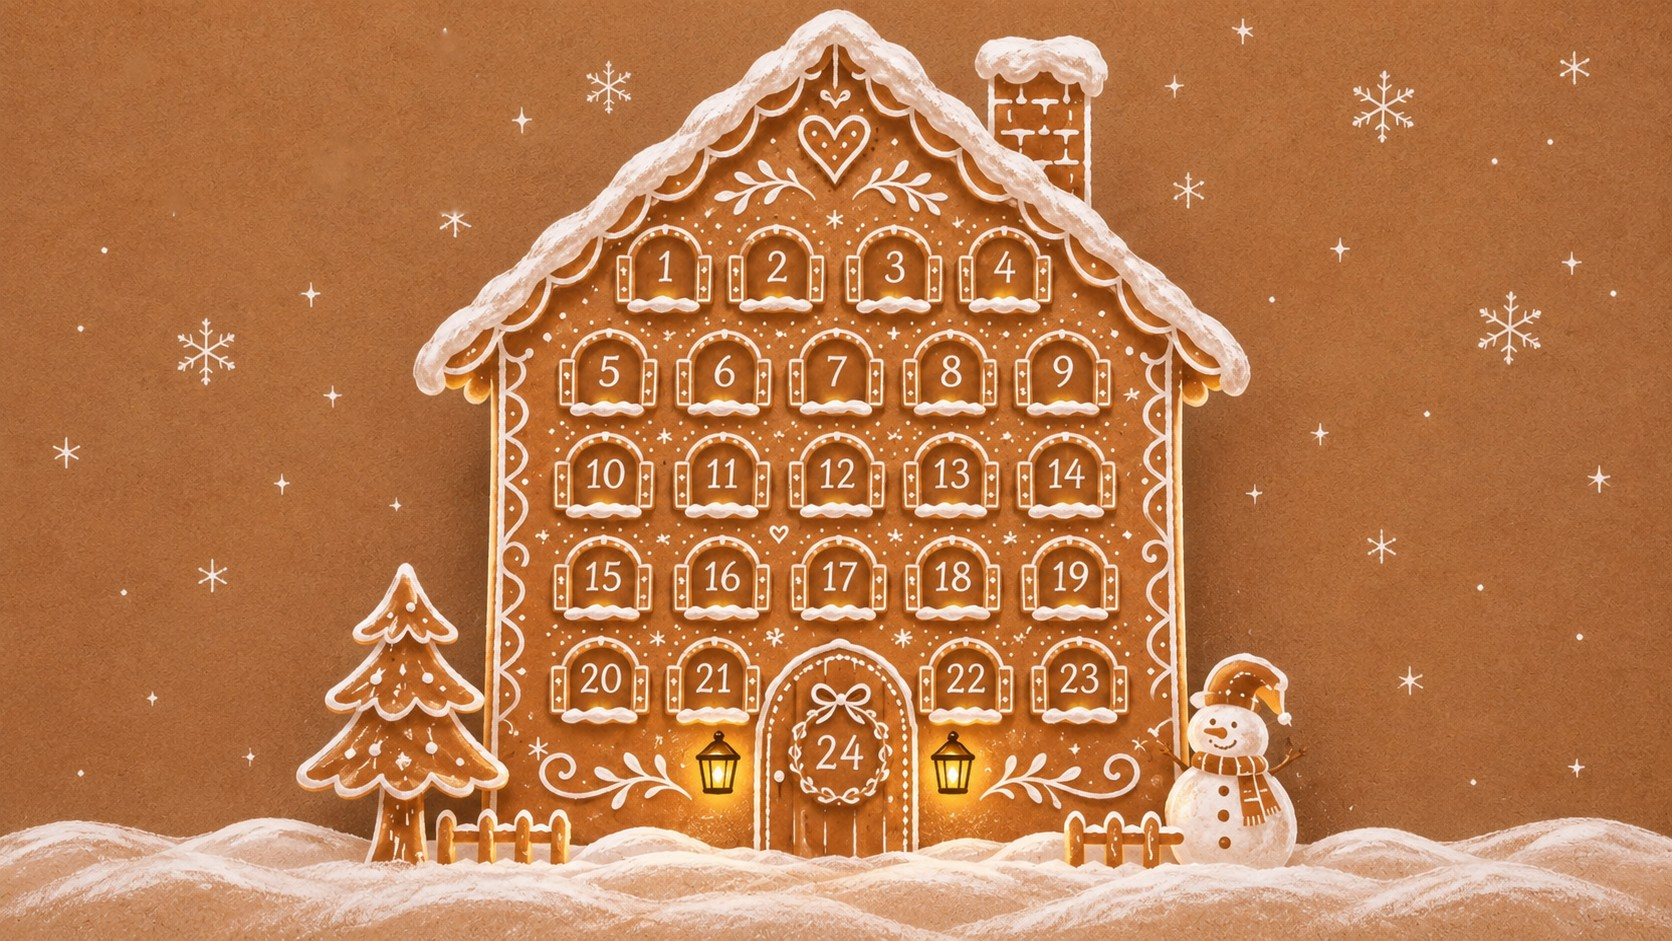
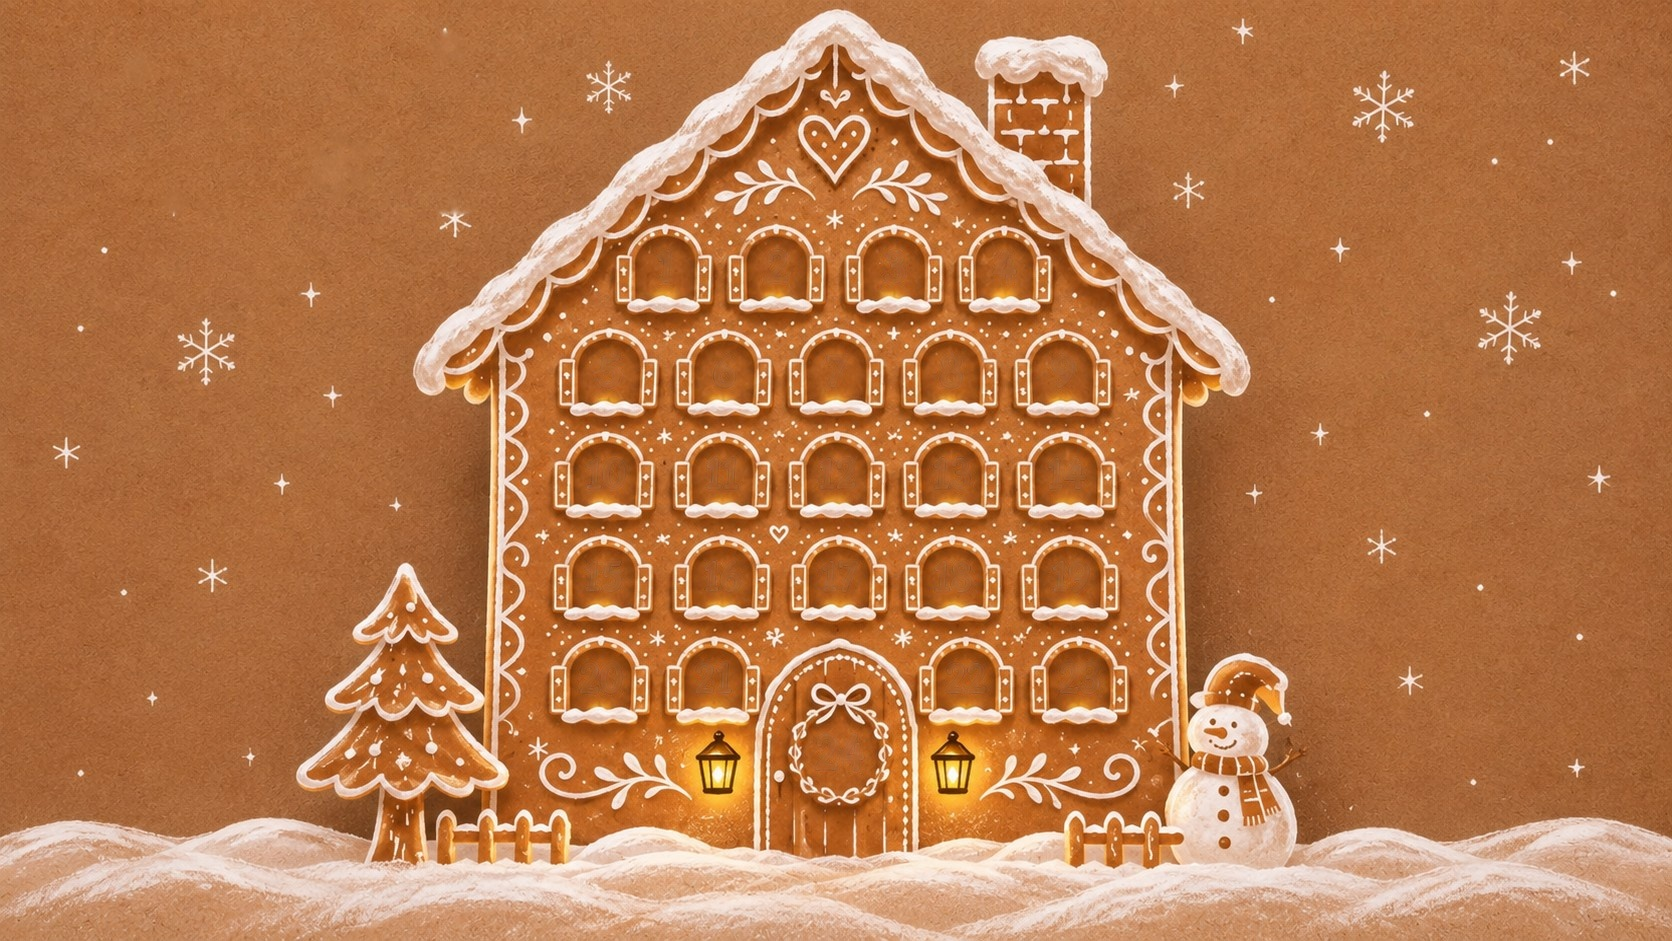
Fensternummern in der Schrift der Karten
Claude-Session: https://claude.ai/code/session_01Th1ZwhDaFACmJguCpPspif

diff --git a/index.html b/index.html
@@ -186,6 +186,11 @@
   @keyframes twinkle-pop { 0% { transform: translate(-50%,-50%) scale(0) rotate(0); opacity: 0; }
     30% { transform: translate(-50%,-50%) scale(1.1) rotate(25deg); opacity: 1; }
     100% { transform: translate(-50%,-50%) scale(.2) rotate(70deg); opacity: 0; } }
+  /* Türchen-Nummern in derselben Schrift wie auf den Karten */
+  .wnum { position: absolute; transform: translate(-50%, -50%); pointer-events: none; z-index: 1;
+    font-family: 'Zuckerguss', cursive; font-weight: 700; line-height: 1; white-space: nowrap;
+    color: #e9e0d5; font-variant-numeric: lining-nums;
+    text-shadow: 0 -.012em 0 #f2ece5, 0 .035em 0 #d4c1ad, 0 .065em .035em rgba(70,35,10,.5); }
   .hint { position: fixed; left: 50%; bottom: calc(env(safe-area-inset-bottom) + 28px);
     transform: translateX(-50%) translateY(20px); opacity: 0; transition: all .4s ease;
     background: #f2e3cb; color: #3a2414; font-family: 'EB Garamond', Georgia, serif; font-size: 18px;
@@ -349,7 +354,7 @@ const PC = innerWidth / innerHeight > 1.05;
 if (PC) document.body.classList.add('pc');
 const LAYOUTS = {
   handy: {
-    img: 'haus-voll.jpg', W: 1199, H: 2702, OFF: 790,
+    img: 'haus-voll.jpg', nums: {"pos": {"1": [364.5, 364.5], "2": [519.0, 365.0], "3": [684.5, 366.5], "4": [834.5, 367.0], "5": [287.0, 514.5], "6": [448.0, 514.0], "7": [603.5, 514.5], "8": [762.0, 514.5], "9": [915.0, 515.0], "10": [282.0, 662.0], "11": [443.5, 660.0], "12": [604.0, 660.0], "13": [762.5, 660.0], "14": [921.0, 660.0], "15": [279.0, 808.0], "16": [445.0, 807.5], "17": [609.0, 808.0], "18": [765.0, 807.5], "19": [928.5, 808.0], "20": [275.0, 957.0], "21": [430.0, 955.5], "22": [786.5, 955.5], "23": [944.0, 955.0], "24": [610.0, 1055.0]}, "h": 43, "h24": 48}, W: 1199, H: 2702, OFF: 790,
     win: [11, 9.5 * 1312 / 2702], win24: [16, 13 * 1312 / 2702],
     glow: [16, 13 * 1312 / 2702], glow24: [22, 17 * 1312 / 2702],
     anim: {"tree": [0, 809, 203, 431], "treeHole": [0, 806, 206, 437], "treePivot": [60.400000000000006, 1226.6], "armL": [1015, 1052, 47, 54], "armR": [1131, 1057, 60, 55], "armHole": [1013, 1051, 180, 63], "pivL": [1054.3, 1096.12], "pivR": [1139.8, 1104.1], "face": [1066, 1027, 50, 52]},
@@ -369,7 +374,7 @@ const LAYOUTS = {
     ]
   },
   pc: {
-    img: 'haus-pc.jpg', W: 1672, H: 941, OFF: 0,
+    img: 'haus-pc.jpg', nums: {"pos": {"1": [665.0, 266.5], "2": [777.0, 266.5], "3": [895.0, 267.0], "4": [1004.5, 267.0], "5": [609.0, 371.0], "6": [725.0, 371.0], "7": [837.5, 371.5], "8": [951.5, 371.0], "9": [1063.0, 371.0], "10": [606.0, 474.0], "11": [722.5, 473.0], "12": [838.0, 473.0], "13": [952.0, 474.0], "14": [1067.0, 473.0], "15": [603.5, 576.0], "16": [722.5, 576.0], "17": [840.0, 576.5], "18": [953.5, 576.0], "19": [1071.0, 576.5], "20": [601.0, 678.0], "21": [713.0, 678.0], "22": [966.0, 678.0], "23": [1079.5, 678.0], "24": [839.5, 752.5]}, "h": 30, "h24": 35}, W: 1672, H: 941, OFF: 0,
     win: [6.3, 10.1], win24: [9, 20], glow: [9, 15], glow24: [13, 25],
     anim: {"tree": [293, 550, 222, 334], "treeHole": [290, 547, 228, 340], "treePivot": [403.9, 871.6], "armL": [1154, 732, 45, 50], "armR": [1261, 736, 57, 52], "armHole": [1152, 730, 168, 59], "pivL": [1190.75, 772.4], "pivR": [1269.5, 779.75], "face": [1202, 708, 45, 49]},
     snowman: [1232, 765, 150, 225], mouth: [1212, 720], tree: [410, 715, 180, 300], treeTop: [440, 600], lamps: [[717, 779, 70, 95], [958, 774, 70, 95]], chimney: [1045, 135, 135, 195], smoke: [1045, 55], heart: { c: [834.5, 149], s: [81, 76], hs: [89, 84], img: 'pc' }, fences: [{"slats": [[447.5, 835.5, 29], [487.5, 835.5, 29], [522.5, 835.5, 29], [560.5, 835.5, 29]], "patch": [504.0, 835.5, 150]}, {"slats": [[1075.5, 832.5, 29], [1113.5, 832.5, 31], [1151.5, 832.5, 31]], "patch": [1114.0, 832.5, 114]}], drift: [[90, 170], [0.2, 0.45]],
@@ -410,7 +415,7 @@ function addStar(parent, leftPct, topPct, sizePx) {
 ['karte-lebkuchen.webp','schnee.jpg', (PC ? 'pc' : 'handy') + '-herz.png', (PC ? 'pc' : 'handy') + '-herz-loch.png'].forEach(u => { const i = new Image(); i.src = u; });
 
 const REPO = 'justynagladysz-star/Advent-';
-const V = '?v=28';   // neue Nummer = Browser lädt die Bilder frisch
+const V = '?v=29';   // neue Nummer = Browser lädt die Bilder frisch
 async function findImage() {
   return L.img + V;
 }
@@ -445,6 +450,15 @@ findImage().then(src => {
       if (y > 9 && y < 22) y = Math.random() < .5 ? 3 + Math.random() * 6 : 22 + Math.random() * 6;
       addStar(wrap, 4 + Math.random() * 92, y, 6 + Math.random() * 12);
     }
+
+    // Nummern auf die Fenster schreiben
+    Object.entries(L.nums.pos).forEach(([d, [x, y]]) => {
+      const n = document.createElement('div'); n.className = 'wnum'; n.textContent = d;
+      const [l, t] = px(x, y);
+      n.style.left = l + '%'; n.style.top = t + '%';
+      n.style.fontSize = ((+d === 24 ? L.nums.h24 : L.nums.h) / 0.68 / L.W * 100) + 'cqw';
+      wrap.appendChild(n);
+    });
 
     // Fenster zum Antippen
     Object.keys(windows).forEach(k => {
